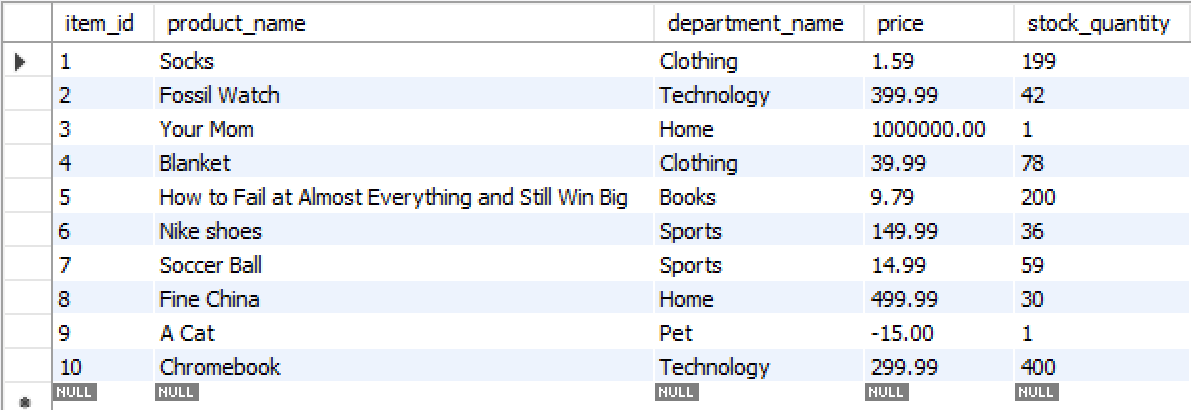
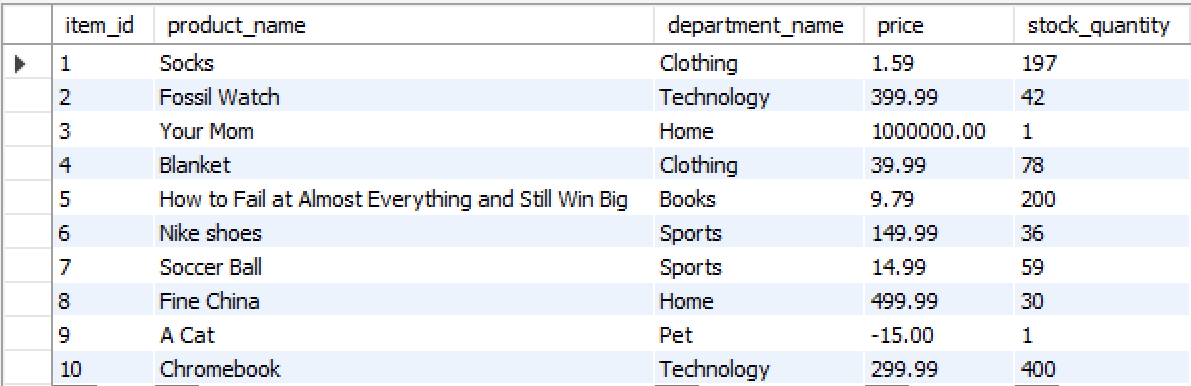
Added capability to display total cost during execution.

Changed region(s): [[0.0, 0.0, 1.0, 1.0], [0.8388, 0.8705, 0.9009, 1.0], [0.8388, 0.2176, 0.9009, 0.2798]]

diff --git a/bamazonCustomer.js b/bamazonCustomer.js
@@ -96,7 +96,7 @@ function queryNumber(product, quantity) {
       if (stockAvail < quantity) {
         console.log("Not enough stock available! Order not processed.");
         mainQuery();
-      } else{
+      } else {
         // process normally
         console.log("Processing Order.");
         processOrder(product, quantity, stockAvail);
@@ -111,6 +111,18 @@ function processOrder(product, quantityNeeded, quantityAvail) {
   connection.query(query, [{ "stock_quantity": quantityAvail - quantityNeeded }, { "product_name": product }], function (err, res) {
     if (err) throw err;
     console.log("Order Processed Successfully!");
-    mainQuery();
+    showCost(product,quantityNeeded);
   })
+}
+
+function showCost(product, quantityOrdered) {
+  var query = "SELECT price FROM products WHERE ?;";
+  connection.query(query, { product_name: product }, function (err, res) {
+    if (err) throw err;
+
+    price=res[0].price;
+    cost=price*quantityOrdered;
+    console.log(`Total cost of order: ${Number.parseFloat(cost).toFixed(2)}`);
+    mainQuery();
+  });
 }
